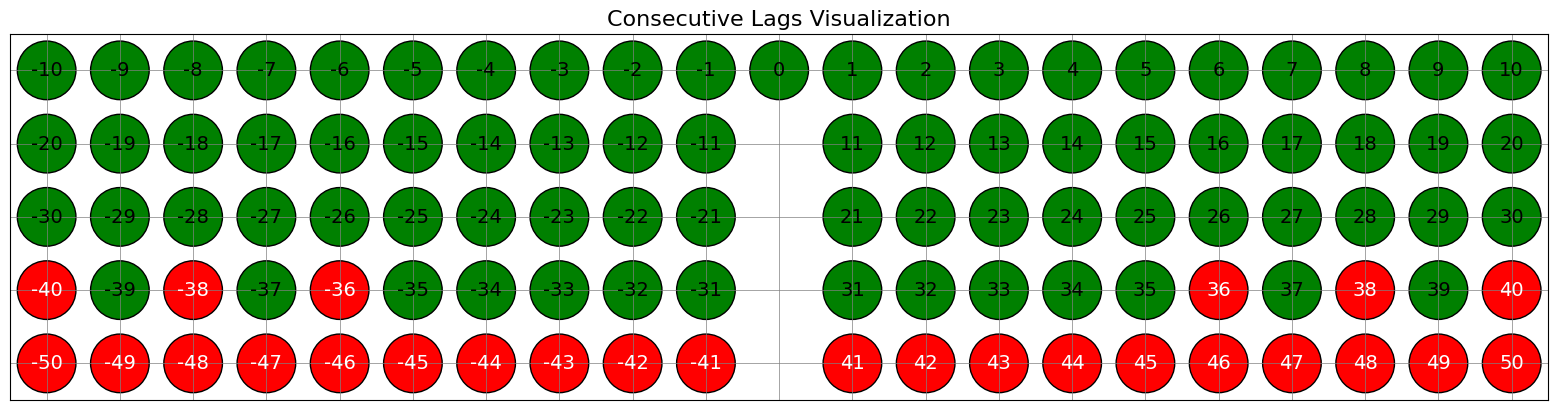
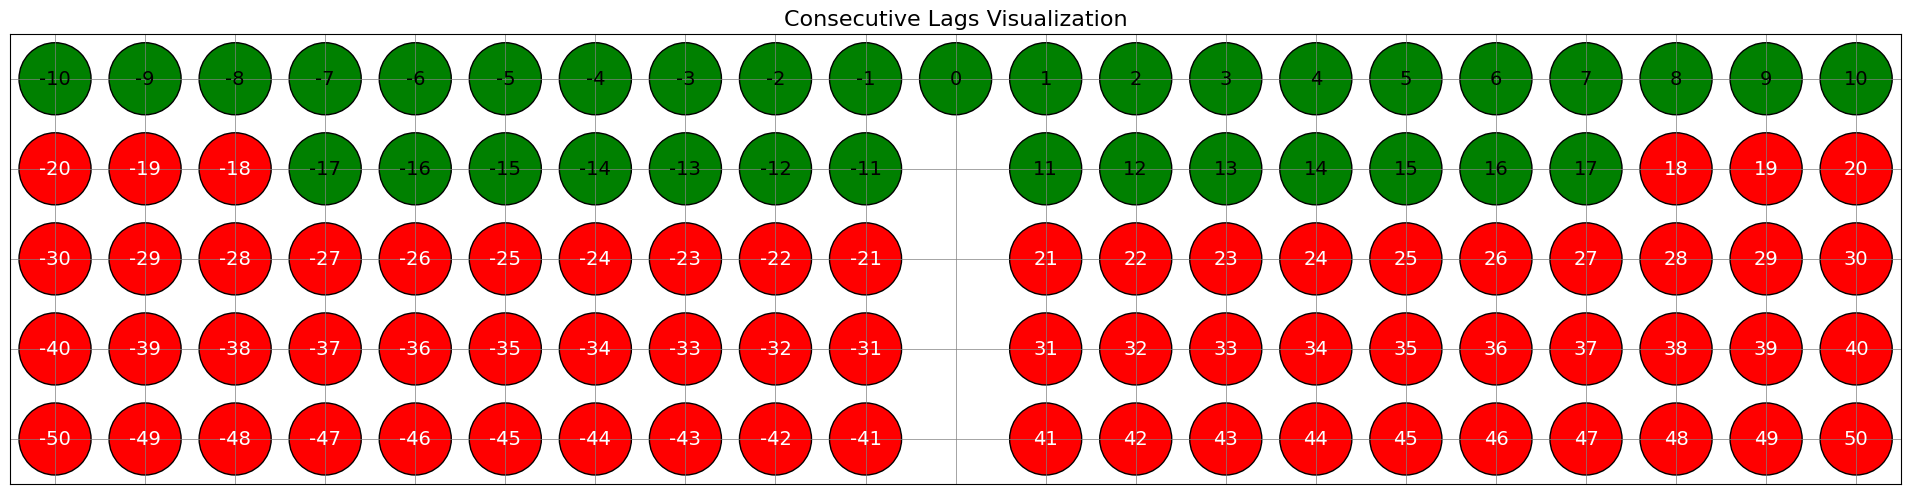
equatio error solved

diff --git a/mathmodels.py b/mathmodels.py
@@ -1,23 +1,54 @@
+import numpy as np
+
 class CATARCSModel:
-    def __init__(self, M, N, d=0.5):
+    def __init__(self, M, N, d=0.5, F=2):
         self.M = M
         self.N = N
         self.d = d  # Inter-element spacing, default is λ/2, but used as 1 for integer positions
-        self.F = 2  # Compression factor
-        self.M_prime = self.M // self.F  # Since M = F * M'
+        self.F = F  # Compression factor
+        self.M_prime = self.M / self.F  # Since M = F * M'
+        # self.M_prime = 1
         self.L = self.M + self.N  # Translocation value
         self.number_of_sensors = 2 * self.M + self.N - 1
 
     def sensor_positions(self):
         # Subarray 1: N sensors, starting at 0
-        S1 = [i * self.M_prime * self.d for i in range(0, self.N)]
-    
+        S1 = [-1 * n * self.M_prime * self.d for n in range(0, self.N)]    
         # Subarray 2: 2M-1 sensors, translocated by L
-        S2 = [(i * self.N + self.L) * self.d
-              for i in range(0, 2 * self.M - 1)]
+        S2 = [(m * self.N + self.L + S1[-1]) * self.d for m in range(0, 2 * self.M - 1)]
         
         # Combine and sort sensor positions
         S = list(set(S1 + S2))  # Use set to ensure no duplicates
         S.sort()  # Sort in ascending order
         
+        return S
+
+
+class GoldenRatioModel:
+    def __init__(self, M, N, d=1):
+        self.M = M
+        self.N = N
+        self.d = d
+        self.phi = (1 + np.sqrt(5)) / 2
+        self.number_of_sensors = self.M + self.N + 4
+        self.dof = int(np.round(self.M * self.N + self.M * (self.phi ** self.N + self.N)))
+
+    def sensor_positions(self):
+        # Layer 1
+        H1 = [n * self.N for n in range(0, self.M + 1)]
+        H1 = list(set(H1))
+        # Layer 2
+        H2 = [self.M * self.N + self.M * (self.phi ** i + i) for i in range(1, self.N + 1)]
+        H2 = np.round(H2).astype(int)
+        H2 = list(set(H2))
+        # Layer 3
+        H3 = [self.M * self.phi, self.N * self.phi, (self.M * self.N) / self.phi]
+        H3 = np.round(H3).astype(int)
+        H3 = list(set(H3))
+
+        # Final sensor positions
+        S = list(set(H1 + H2 + H3))
+        S.sort()
+        S = [int(x) for x in S]
+
         return S

diff --git a/experiment.py b/experiment.py
@@ -1,4 +1,4 @@
-from mathmodels import CATARCSModel
+from mathmodels import GoldenRatioModel, CATARCSModel
 from utils import compute_difference_coarray, prepare_grid, visualize_consecutive_lags
 
 
@@ -7,25 +7,29 @@ if __name__ == "__main__":
     M, N = 4, 5 # Coprime integers
     d = 1  # Inter-element spacing (normalized units)
 
-    # Create an instance of the CATARCS model
-    catarcs_model = CATARCSModel(M, N, d)
+    # Create an instance of the models
+    golden_ratio_model = GoldenRatioModel(M, N, d)
+    catarcs_model = CATARCSModel(M, N, d, F=2)  # Using F=3 for CATARCS model
 
     # Get sensor positions
     sensor_positions = catarcs_model.sensor_positions()
     print("Number of Sensors:", catarcs_model.number_of_sensors)
+    print("Degrees of Freedom:", golden_ratio_model.dof)
     print("Sensor Positions:", sensor_positions)
-
+    print("Actual Sensor Number:", len(sensor_positions))
     # Compute the difference coarray
     coarray = compute_difference_coarray(sensor_positions)
     print("Difference Coarray:", coarray)
 
     # Prepare the grid for visualization
-    range_value = 50  # Define the range for the grid
+    range_value = 100  # Define the range for the grid
     grid = prepare_grid(range_value, coarray)
 
     # Visualize the consecutive lags
     visualize_consecutive_lags(
         grid, ncols=10, save=True,
-        save_path='figures/consecutive_lags_CATARCS_visualization.png',
+        save_path='figures/consecutive_lags_goldenratio_visualization.png',
         show=True
         )
+    
+

diff --git a/utils.py b/utils.py
@@ -10,9 +10,7 @@ def compute_difference_coarray(sensor_positions):
             lags.append(i - j)
     coarray = np.array(lags)
     coarray = np.unique(coarray)
-    coarray = np.abs(coarray)
     coarray = np.sort(coarray)
-    coarray = np.unique(coarray)
     return coarray
 
 
@@ -21,7 +19,7 @@ def prepare_grid(range, coarray):
     space = np.arange(-range, range + 1)
     for pos in space:
         grid["Positions"].append(pos)
-        if np.abs(pos) in coarray:
+        if pos in coarray:
             grid["IsCovered"].append(True)
         else:
             grid["IsCovered"].append(False)

diff --git a/tempCodeRunnerFile.py b/tempCodeRunnerFile.py
@@ -1,0 +1,1 @@
+catarcs_model
